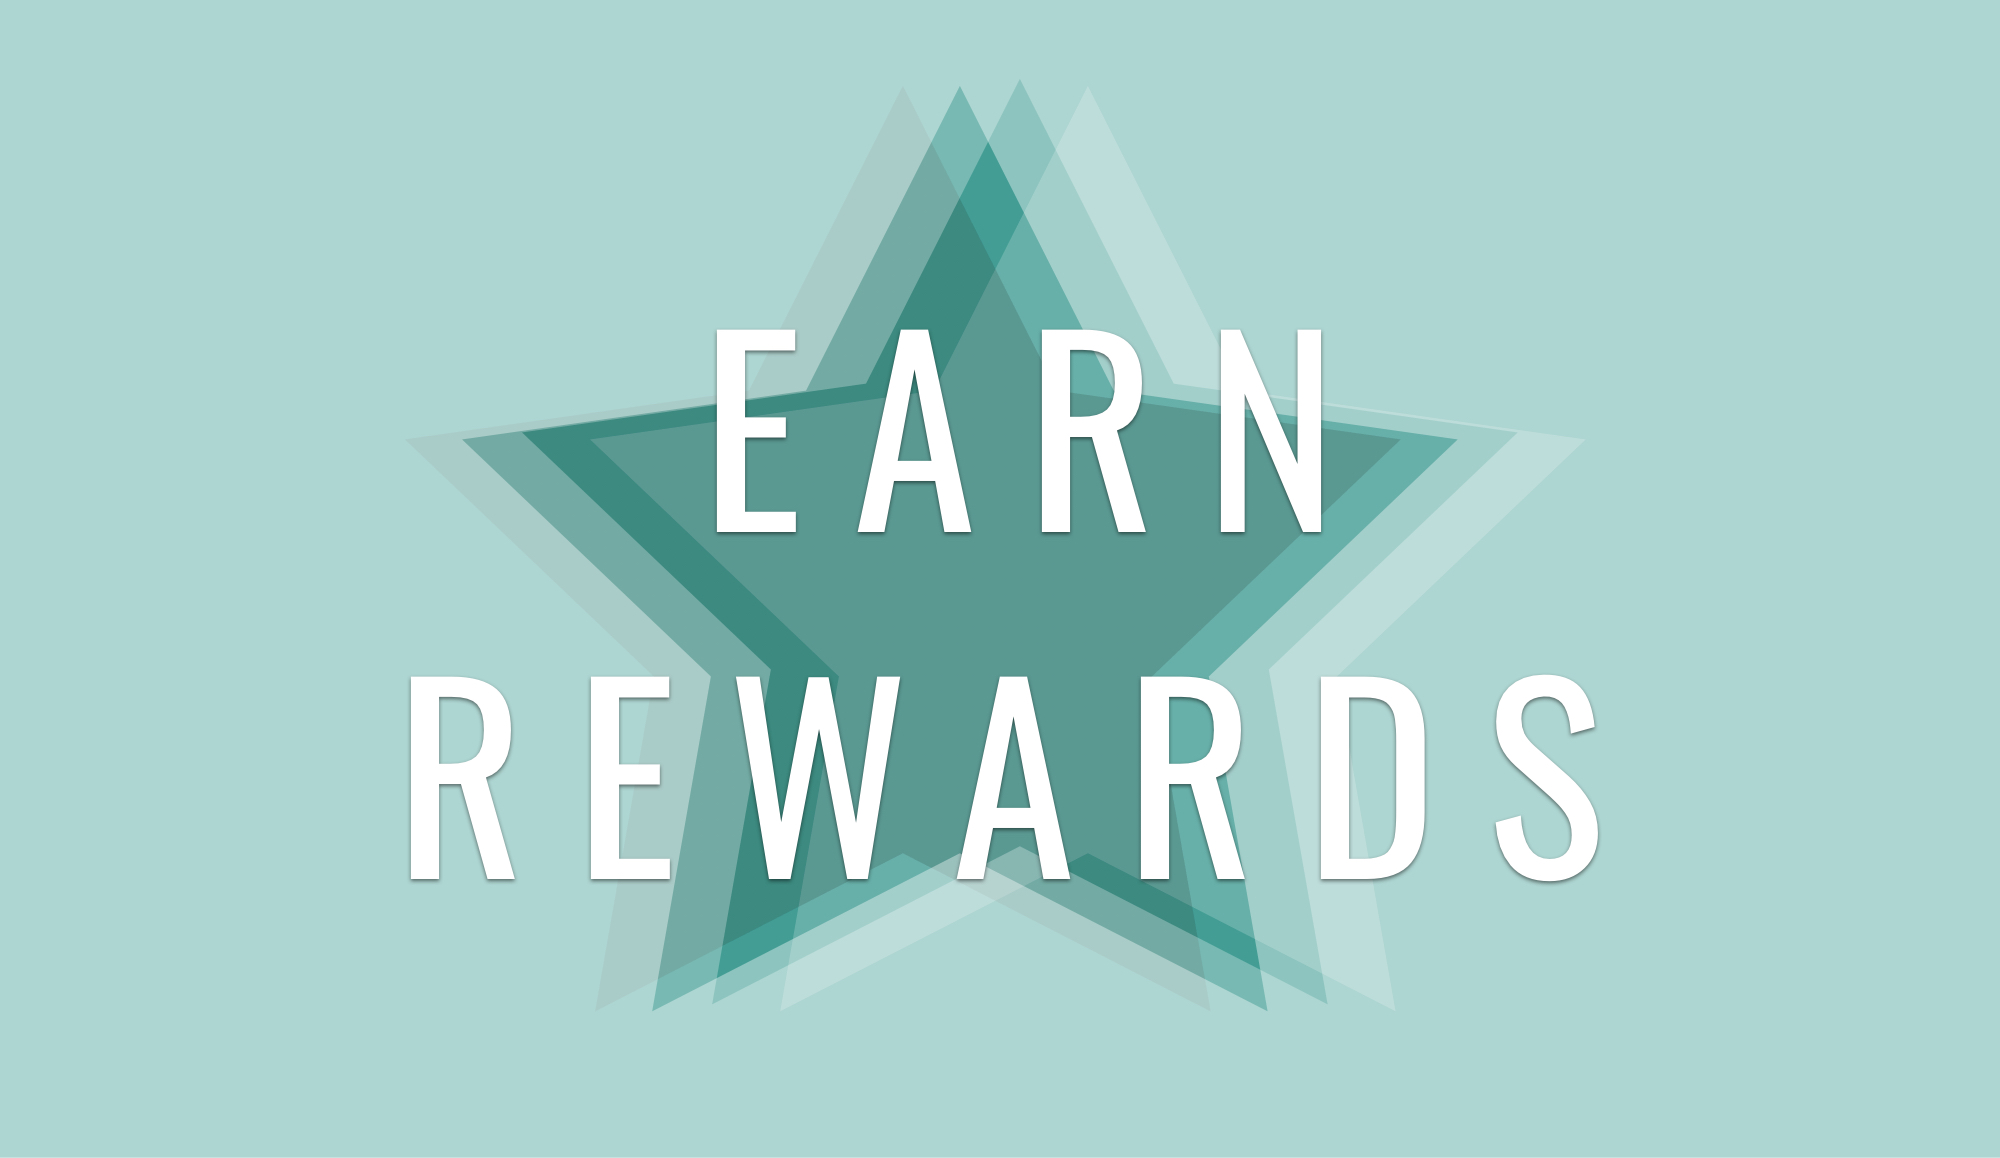
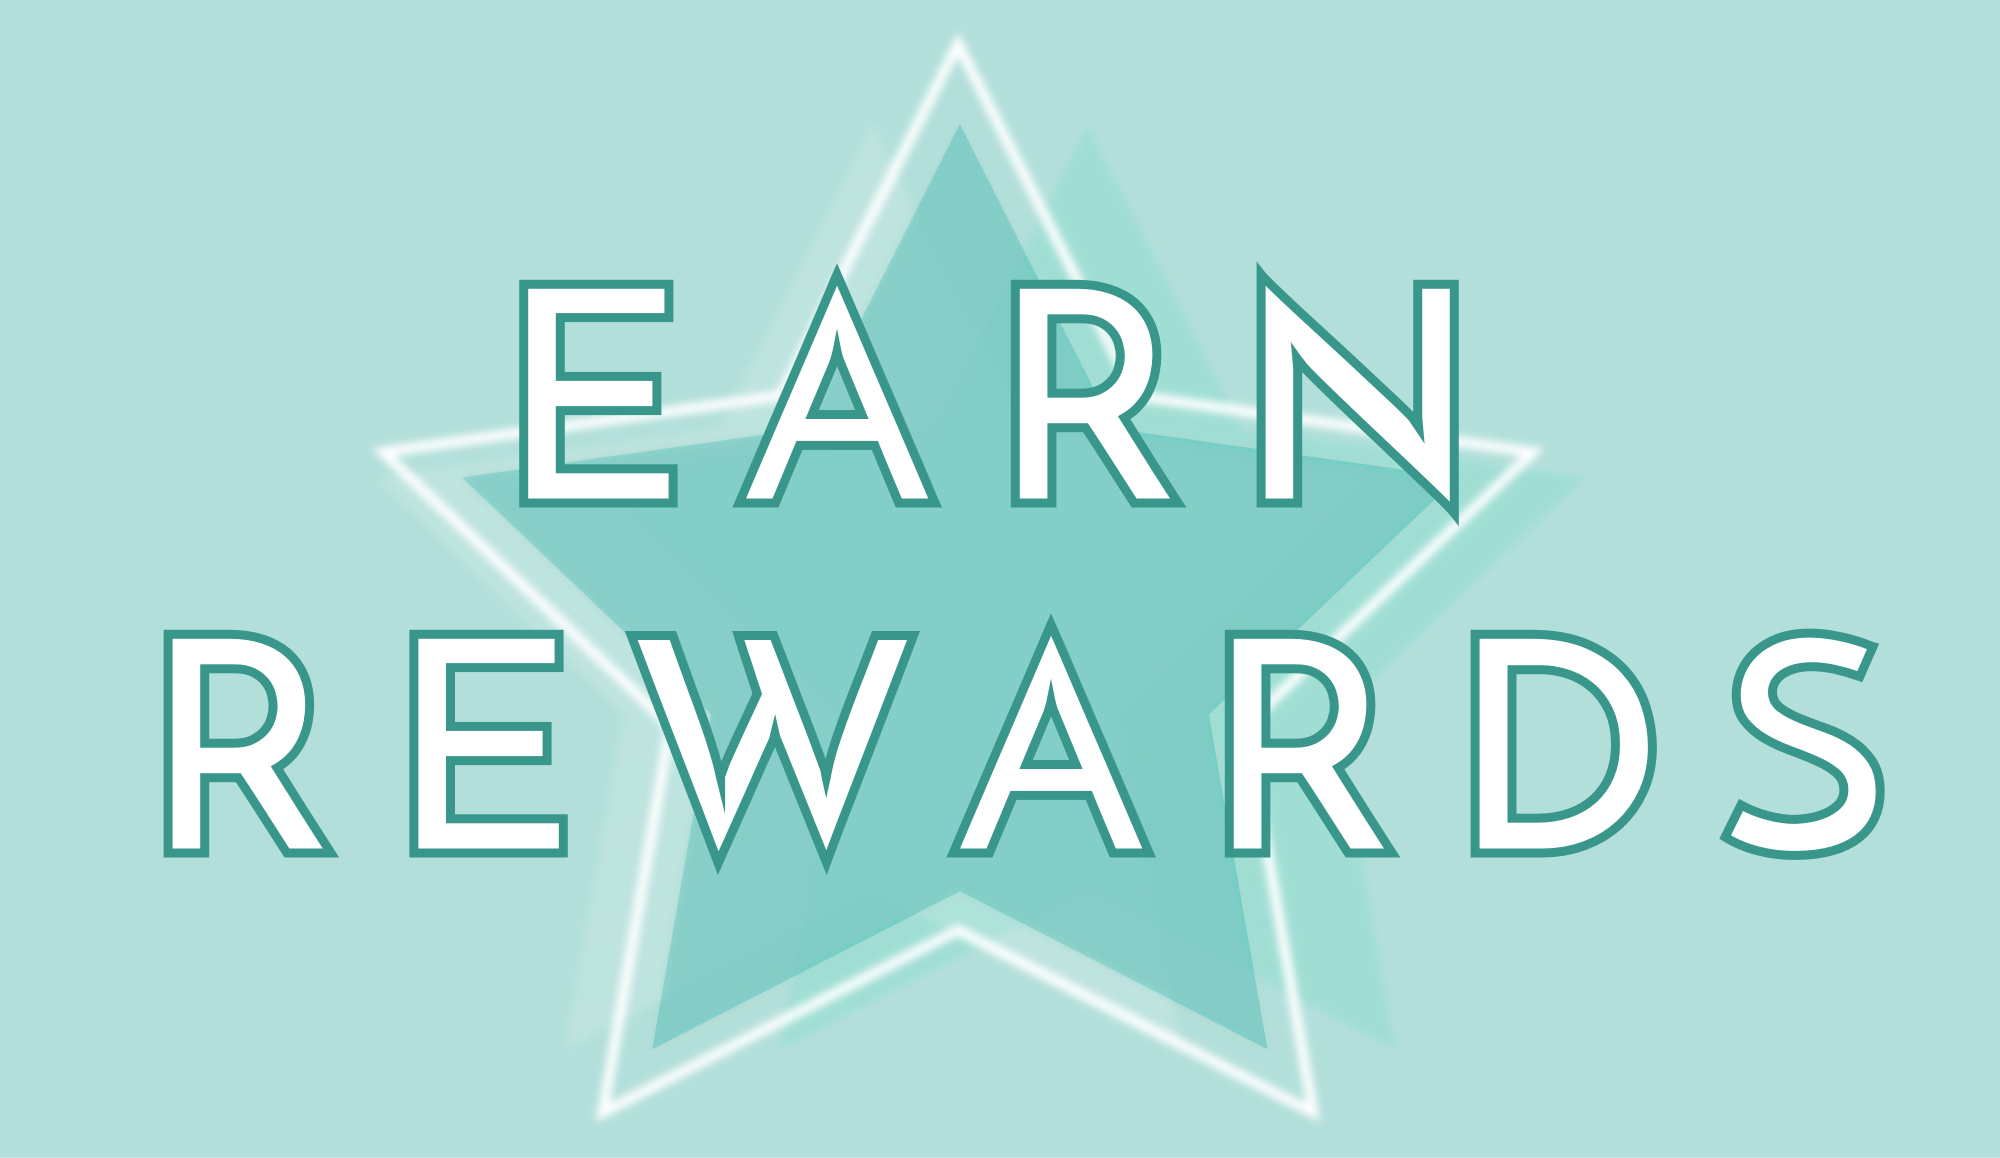
changed homepage graphics

Changed region(s): [[0.062, 0.0311, 0.837, 0.9637], [0.837, 0.5285, 0.961, 0.7461]]

diff --git a/index.html b/index.html
@@ -190,16 +190,16 @@ WORK LEFT TO DO:
                 <div class="row">
                   <div class="col-md-4 col-sm-6 col-lg-4 col-xs-6 col-lg-offset-2 col-md-offset-2">
                           <div class="welcome-nav-button">
-                            <a href="rewards.html">
-                               <img src="images/home/rewards.jpg" class="img-responsive" alt="">
+                            <a href="menu.html">
+                               <img src="images/home/menu.jpg" class="img-responsive" alt="">
                             </a>
                           </div>
                               
                     </div>
                     <div class="col-md-4 col-sm-6 col-lg-4 col-xs-6">
                       <div class="welcome-nav-button">
-                        <a href="menu.html">
-                                <img src="images/home/products.jpg" class="img-responsive" alt="">
+                        <a href="rewards.html">
+                                <img src="images/home/rewards.jpg" class="img-responsive" alt="">
                         </a>
                       </div>
                     </div>  
